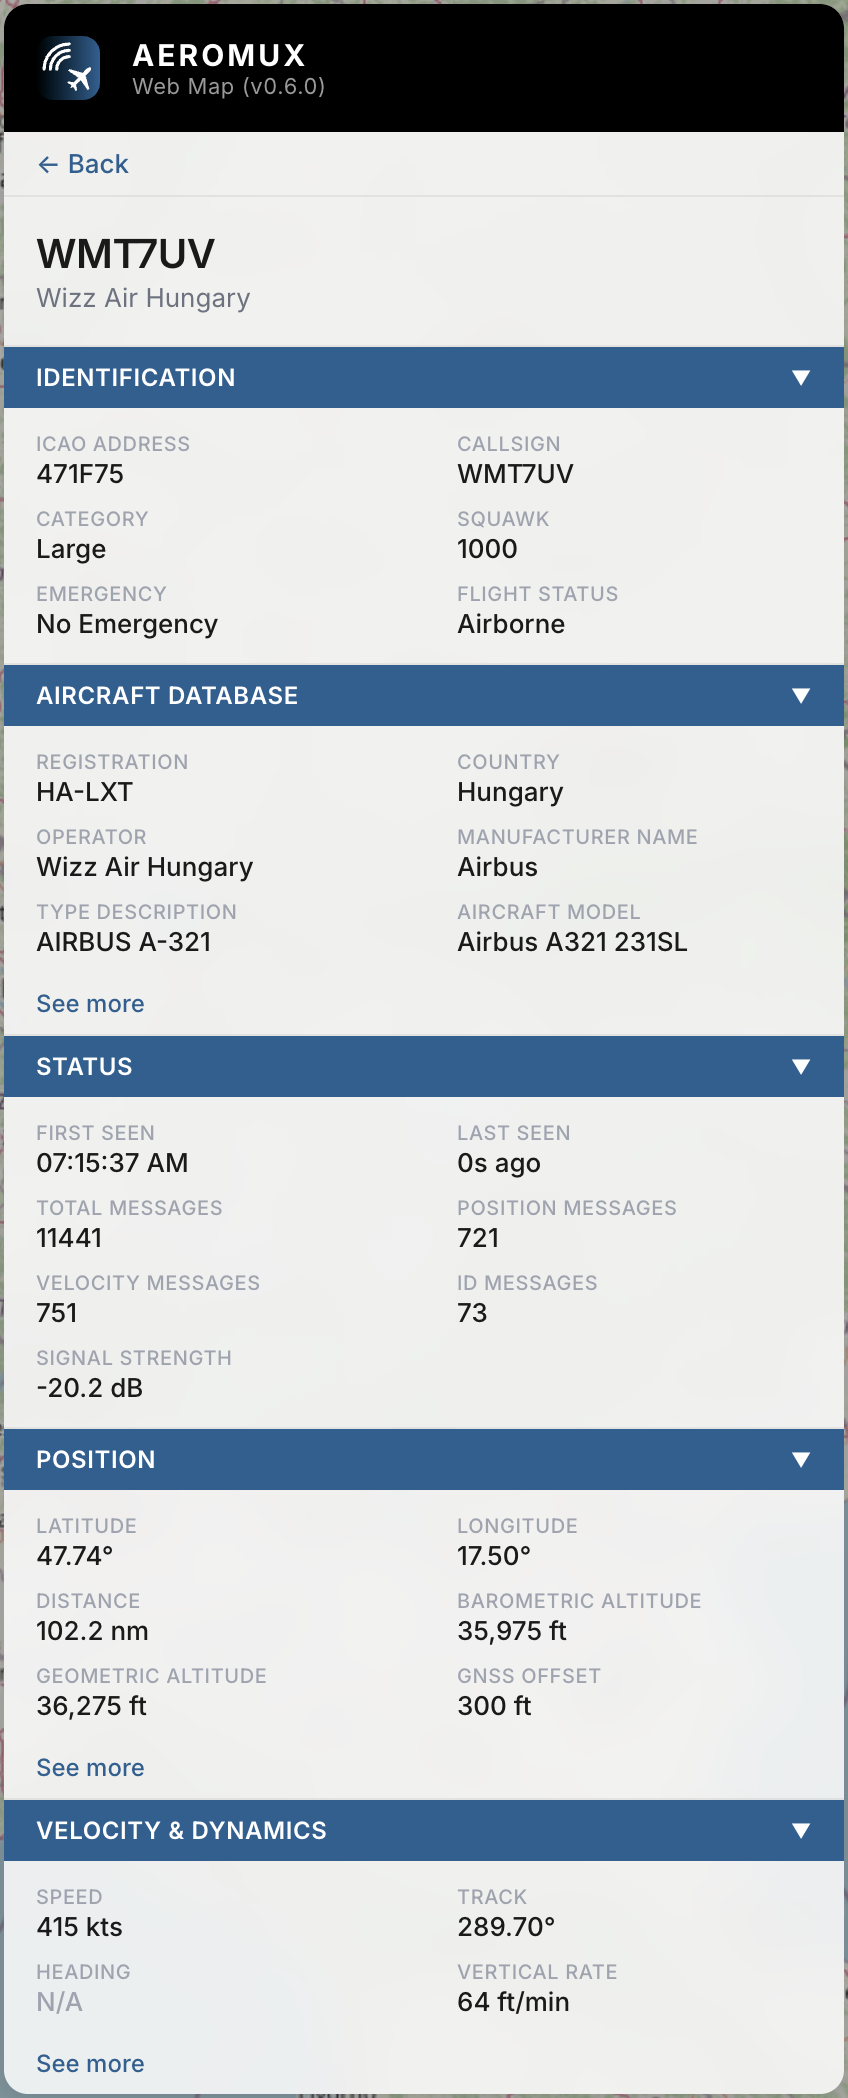
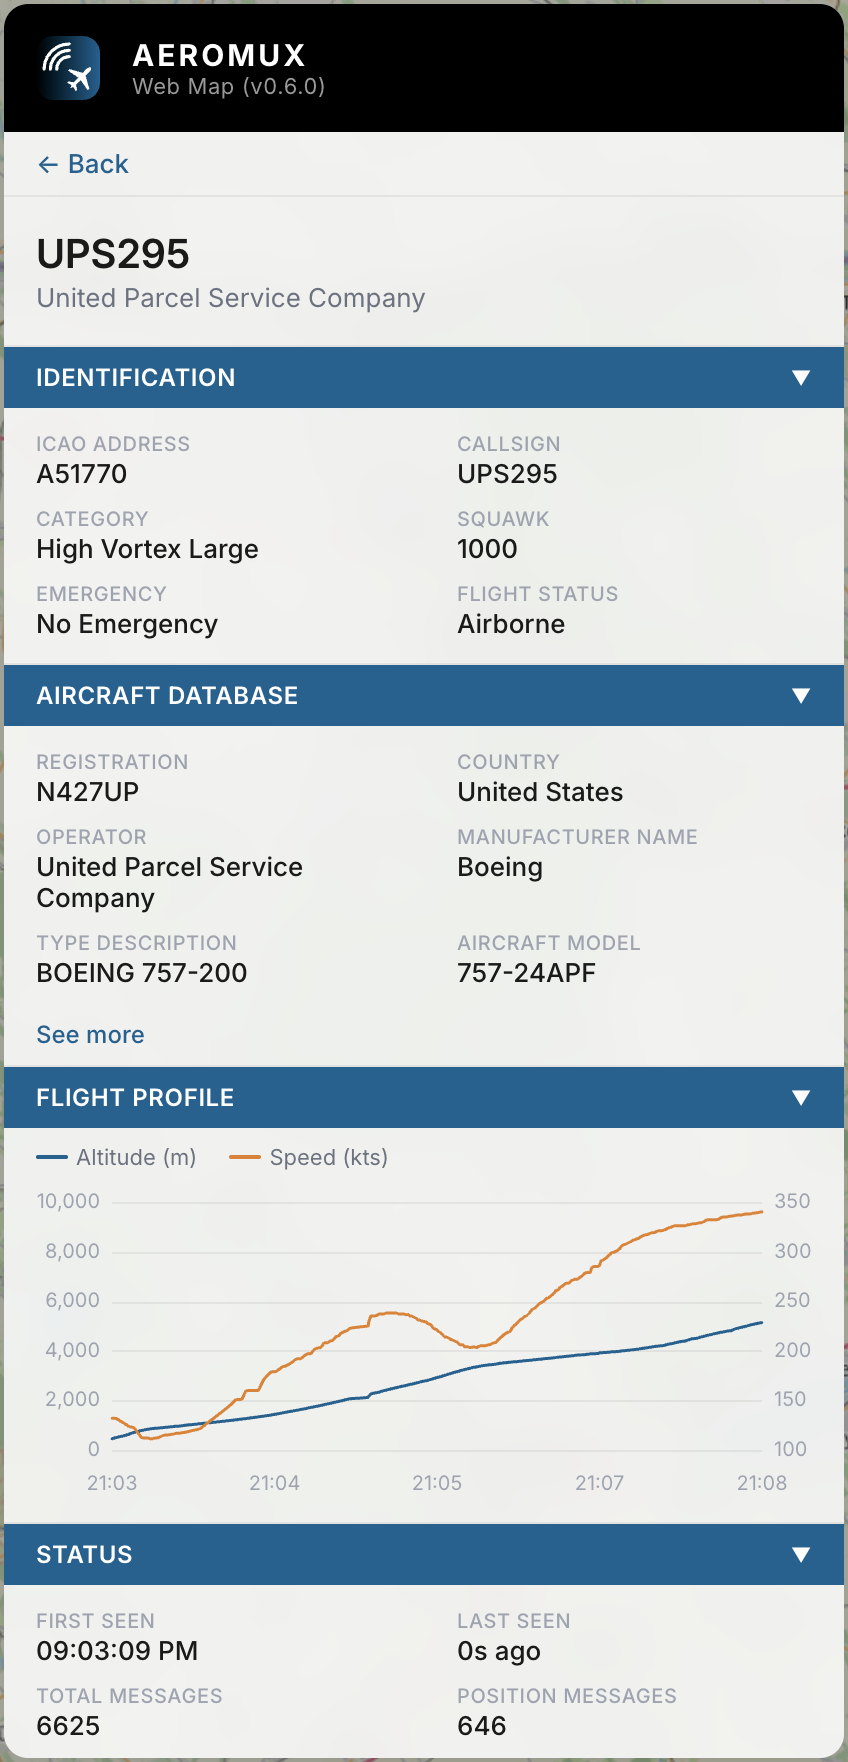
Add smooth quadratic Bézier line rendering to Flight Profile chart and update documentation

diff --git a/src/Aeromux.CLI/Commands/Daemon/WebMap/Components/FlightProfileChart.jsx b/src/Aeromux.CLI/Commands/Daemon/WebMap/Components/FlightProfileChart.jsx
@@ -92,6 +92,29 @@ function formatAxisValue(v) {
     return Math.abs(n) >= 1000 ? n.toLocaleString() : String(n);
 }
 
+// Draw a quadratic Bézier spline through pixel-coordinate arrays.
+function drawSmoothSegment(ctx, xs, ys) {
+    const n = xs.length;
+    if (n === 0) return;
+
+    ctx.moveTo(xs[0], ys[0]);
+    if (n === 1) return;
+    if (n === 2) { ctx.lineTo(xs[1], ys[1]); return; }
+
+    // Line to midpoint between first two points
+    ctx.lineTo((xs[0] + xs[1]) / 2, (ys[0] + ys[1]) / 2);
+
+    // Quadratic curves through interior points using midpoints as endpoints
+    for (let i = 1; i < n - 1; i++) {
+        const midX = (xs[i] + xs[i + 1]) / 2;
+        const midY = (ys[i] + ys[i + 1]) / 2;
+        ctx.quadraticCurveTo(xs[i], ys[i], midX, midY);
+    }
+
+    // Line to last point
+    ctx.lineTo(xs[n - 1], ys[n - 1]);
+}
+
 // Draw a data line, breaking the path at null values to produce visible gaps.
 function drawLine(ctx, entries, times, getValue, yPos, xPos, color) {
     ctx.strokeStyle = color;
@@ -99,20 +122,30 @@ function drawLine(ctx, entries, times, getValue, yPos, xPos, color) {
     ctx.lineJoin = 'round';
     ctx.lineCap = 'round';
 
-    let drawing = false;
-    ctx.beginPath();
+    // Collect contiguous runs of non-null points, draw each as a smooth segment
+    let segXs = [];
+    let segYs = [];
+
+    const flushSegment = () => {
+        if (segXs.length > 0) {
+            ctx.beginPath();
+            drawSmoothSegment(ctx, segXs, segYs);
+            ctx.stroke();
+            segXs = [];
+            segYs = [];
+        }
+    };
+
     for (let i = 0; i < entries.length; i++) {
         const v = getValue(entries[i]);
         if (v == null) {
-            if (drawing) { ctx.stroke(); ctx.beginPath(); drawing = false; }
+            flushSegment();
             continue;
         }
-        const x = xPos(times[i]);
-        const y = yPos(v);
-        if (!drawing) { ctx.moveTo(x, y); drawing = true; }
-        else { ctx.lineTo(x, y); }
+        segXs.push(xPos(times[i]));
+        segYs.push(yPos(v));
     }
-    if (drawing) ctx.stroke();
+    flushSegment();
 }
 
 function draw(canvas, entries, units) {

diff --git a/docs/WEBMAP.md b/docs/WEBMAP.md
@@ -82,6 +82,7 @@ The detail view is organized into the following sections:
 
 - **Identification** — The aircraft's ICAO address, callsign, wake turbulence category, squawk code, and emergency state.
 - **Aircraft Database** — Static metadata from the [aeromux-db](https://github.com/aeromux/aeromux-db) database, including registration, operator, manufacturer, aircraft type, and regulatory flags such as FAA PIA and LADD.
+- **Flight Profile** — A dual-axis chart showing barometric altitude (blue line, left axis) and ground speed (orange line, right axis) over time. The chart loads historical data on selection and extends in real-time as new state updates arrive. A legend above the chart indicates the color and unit for each series. When state history is not enabled or no data is available, an informational message is shown instead.
 - **Status** — Timestamps for when the aircraft was first and last seen, message counts broken down by type (position, velocity, identification), and the current signal strength.
 - **Position** — Geographic coordinates, distance from the receiver, barometric and geometric altitudes with their delta, ground state, and position source.
 - **Velocity & Dynamics** — Ground speed, airspeed, heading, track angle, vertical rate, roll angle, Mach number, magnetic declination, turn rate, and surface movement data.
@@ -91,7 +92,7 @@ The detail view is organized into the following sections:
 - **Capabilities** — Transponder level, ADS-B version, data link feature support (1090ES, UAT, CDTI), operational flags, aircraft dimensions, GPS antenna offsets, downlink request, utility message, data link capability, and supported BDS registers.
 - **Data Quality** — Navigation accuracy (NACp, NACv), navigation integrity (NICbaro, NIC supplements), surveillance integrity (SIL), geometric vertical accuracy, antenna configuration, and system design assurance level.
 
-Sections 1 through 5 are expanded by default; sections 6 through 10 are collapsed. Sections with many fields include a "See more" link to reveal additional details. The detail view updates in real-time as new data is received. If the selected aircraft expires (no messages received within the timeout period), an `[EXPIRED]` banner is displayed at the top of the detail view.
+Sections 1 through 6 are expanded by default; sections 7 through 11 are collapsed. Sections with many fields include a "See more" link to reveal additional details. The detail view updates in real-time as new data is received. If the selected aircraft expires (no messages received within the timeout period), an `[EXPIRED]` banner is displayed at the top of the detail view.
 
 ## Control Panel (Top Right)
 

diff --git a/CHANGELOG.md b/CHANGELOG.md
@@ -6,13 +6,14 @@ All notable changes to Aeromux will be documented in this file.
 
 ### Added
 
-- **Web Map** — Built-in browser-based map for real-time aircraft visualization with interactive aircraft list, detail view, position trails, and real-time updates via SignalR. Served directly by the daemon with no external web server required. See the [Web Map Guide](docs/WEBMAP.md).
+- **Web Map** — Built-in browser-based map for real-time aircraft visualization with interactive aircraft list, detail view, position trails, and real-time updates. Served directly by the daemon with no external web server required. See the [Web Map Guide](docs/WEBMAP.md).
 - **Web Map Range Rings** — Three range rings (100/150/200 nm) centered on the receiver location with distance labels and a center point marker. Distances follow the selected unit (nautical miles, kilometers, or miles). Toggleable from the settings panel.
 - **Web Map Search Highlighting** — Matched text is highlighted in orange in the search dropdown across callsign, ICAO, and registration fields.
 - **Web Map Sortable Columns** — Aircraft list columns (callsign, altitude, speed, distance) are sortable by clicking headers, with sort preferences persisted in the browser.
 - **Web Map Settings Panel** — Unified control panel with search input, unit switching (speed, altitude, distance), interface settings, and reset to defaults behind a gear icon.
 - **Web Map Dark Overlay** — Semi-transparent dark overlay on map tiles for improved aircraft marker contrast.
 - **Web Map Hover Tooltip** — Tooltip showing callsign, ICAO, speed, and altitude when hovering over aircraft markers, tracking the aircraft position continuously.
+- **Web Map Flight Profile** — Dual-axis chart in the aircraft detail view showing barometric altitude and ground speed over time, with historical data loaded on selection and real-time updates.
 
 ### Changed
 
